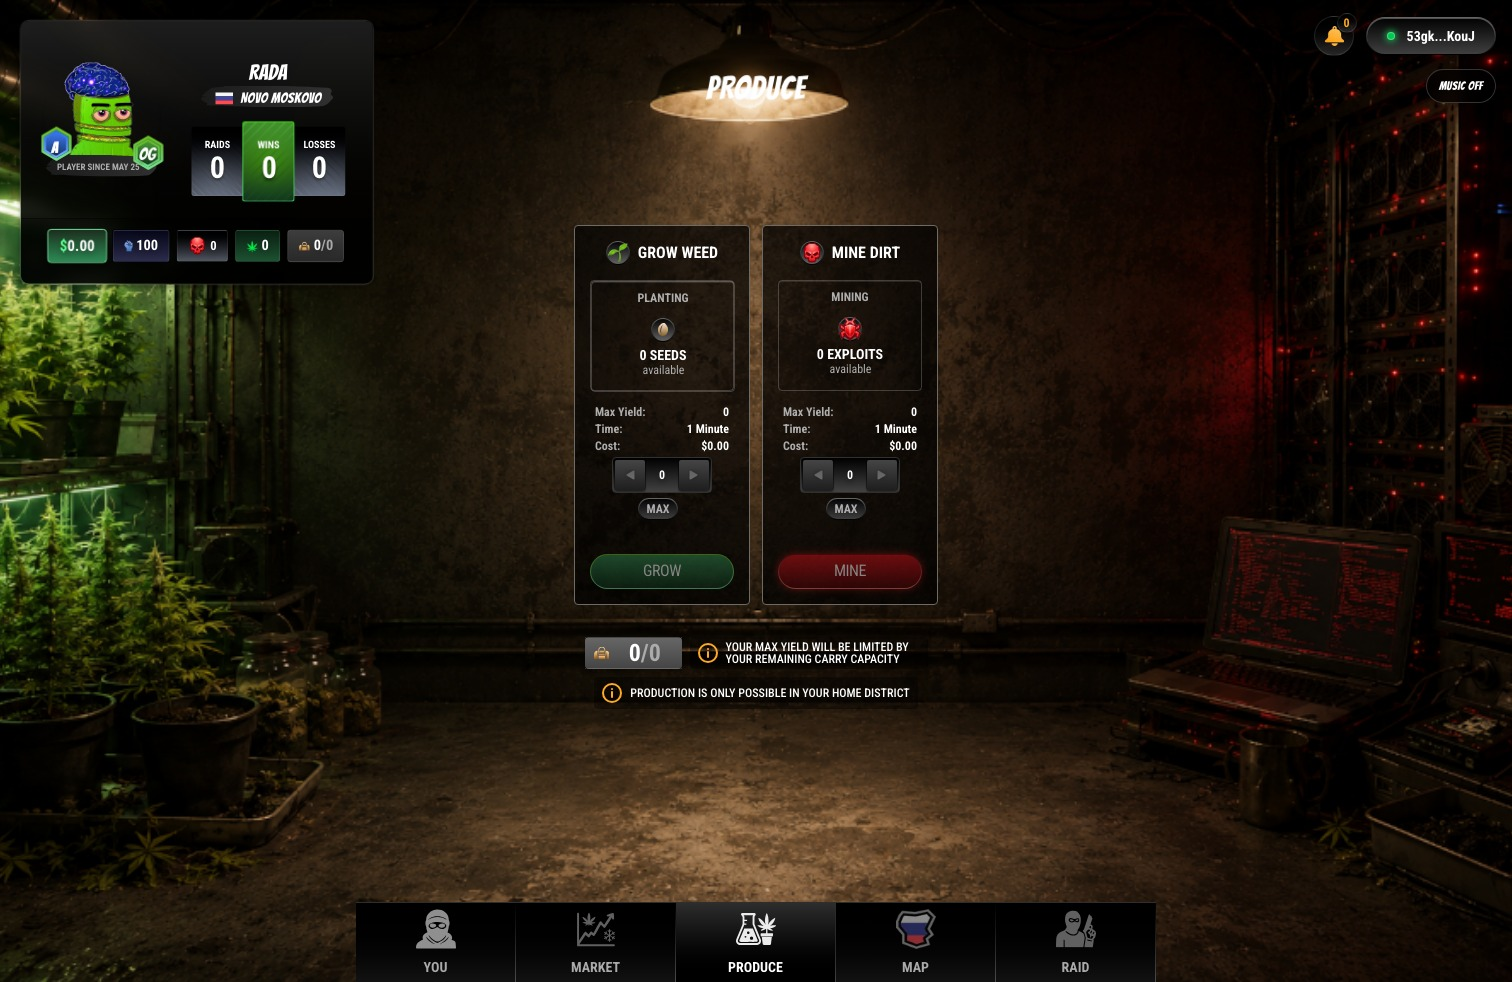
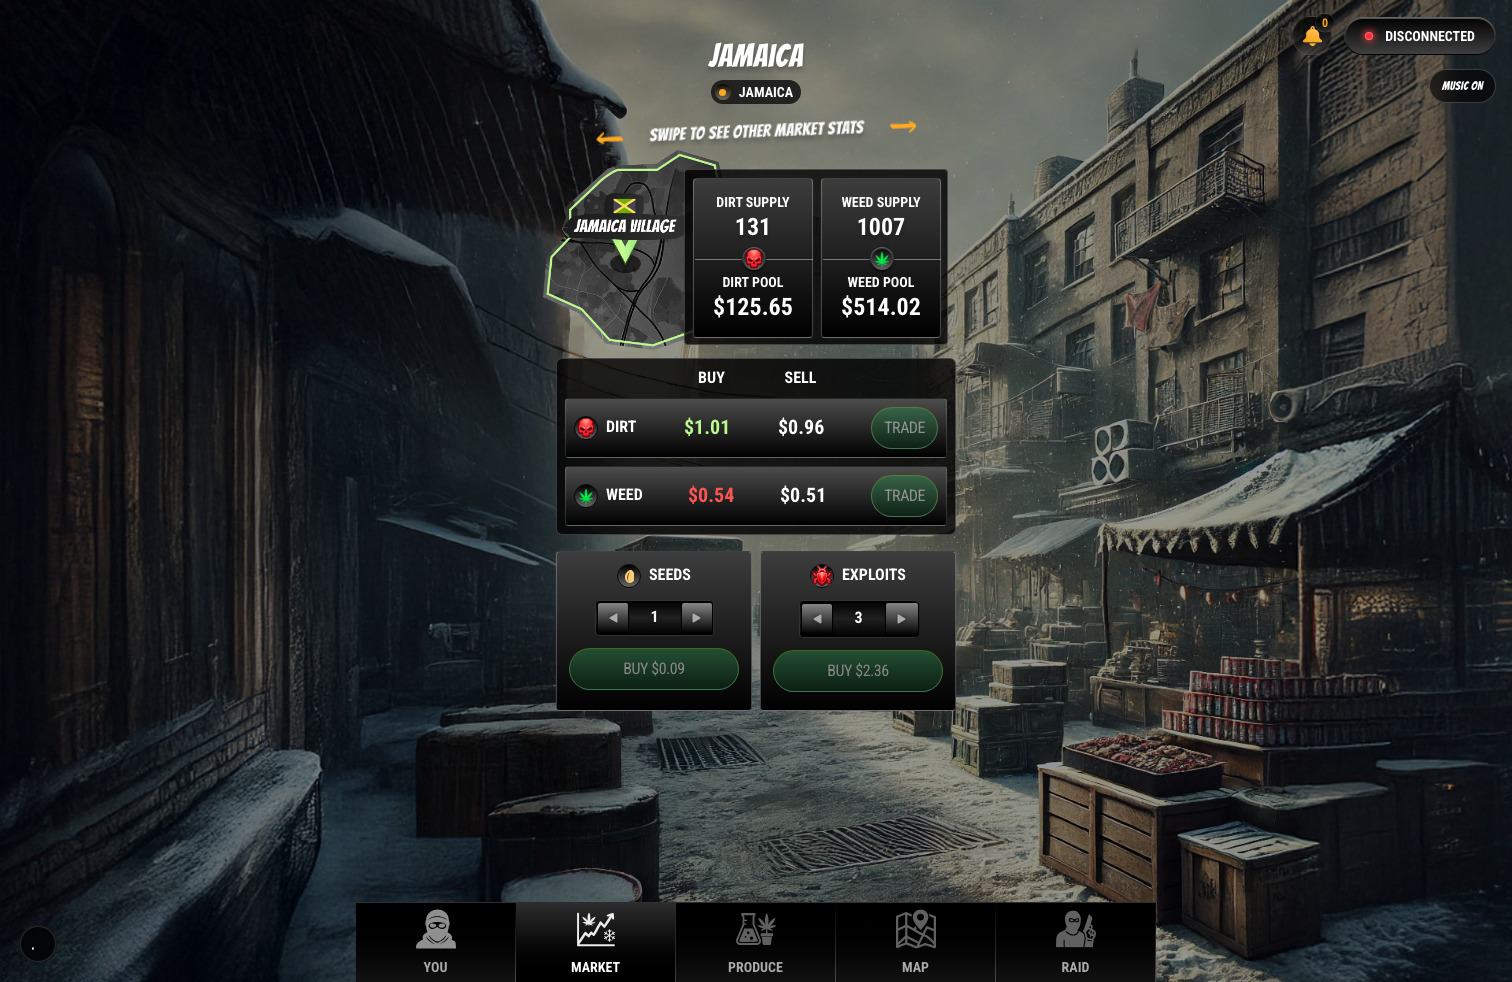
Fix GitBook DIRT visuals and arbitrage docs

diff --git a/trading.md b/trading.md
@@ -19,6 +19,30 @@ District markets can sell:
 
 SEEDS and EXPLOITS are inputs. WEED and DIRT are finished product.
 
+## Arbitrage: Route the Spread
+
+Arbitrage is the trader's core edge. Every district can price WEED, DIRT, SEEDS, and EXPLOITS differently. If one district lets you buy low and another district lets you sell high, the gap becomes a route opportunity.
+
+<figure><img src=".gitbook/assets/arbitrage-market-route.jpg" alt="DopeRaider market and route screens" width="720"><figcaption><p>Arbitrage starts on the market screen, then becomes a travel decision.</p></figcaption></figure>
+
+The basic read is:
+
+```text
+expected profit = destination sell value - origin buy cost - travel cost - fees - expected losses
+```
+
+The spread is only real after costs. A DIRT price gap can look profitable until you add travel, boss tax, bust exposure, raid risk, and the time it takes to reach the exit market. A smaller spread on a safer route can beat a bigger spread through a hot district.
+
+Good arbitrage players:
+
+* check DIRT and WEED buy/sell prices before moving
+* keep enough USDC for travel after buying inventory
+* use Bust Protection when the carried value justifies it
+* avoid filling capacity so tightly that raid or jackpot rewards are wasted
+* sell before the market moves or other players crowd the same route
+
+Timing matters. If you buy before demand spikes, move while protection is active, and sell before supply floods the destination, the same inventory can turn into profit. If you wait too long, the spread can disappear while you are still on the road.
+
 ## Buy Low, Sell High
 
 The simple version is easy:

diff --git a/production.md b/production.md
@@ -1,14 +1,13 @@
 ---
 icon: user-helmet-safety
-cover: .gitbook/assets/production-landscape.png
-coverY: 58
+cover: .gitbook/assets/cover-production.jpg
 ---
 
 # Production
 
 Production is how raw inputs become inventory. Without producers, traders have nothing to move and raiders have nothing worth stealing.
 
-<figure><img src=".gitbook/assets/screen-production-desktop.jpg" alt="DopeRaider production screen" width="720"><figcaption><p>Grow WEED. Mine DIRT. Watch capacity before starting either job.</p></figcaption></figure>
+<figure><img src=".gitbook/assets/screen-production-desktop.jpg" alt="DopeRaider production screen with WEED and DIRT" width="720"><figcaption><p>Grow WEED. Mine DIRT. Watch capacity before starting either job.</p></figcaption></figure>
 
 ## Production Chains
 

diff --git a/README.md b/README.md
@@ -1,12 +1,11 @@
 ---
 icon: cannabis
-cover: .gitbook/assets/hero-bg.png
-coverY: 78
+cover: .gitbook/assets/cover-home.jpg
 ---
 
 # DopeRaider
 
-<figure><img src=".gitbook/assets/doperaider-logo-text.svg" alt="DopeRaider" width="260"><figcaption></figcaption></figure>
+<figure><img src=".gitbook/assets/doperaider-logo.png" alt="DopeRaider logo" width="260"><figcaption></figcaption></figure>
 
 DopeRaider is a real-time on-chain multiplayer RPG about building an empire under pressure. Players grow WEED, mine DIRT, move product across seven districts, raid rivals, earn Respect, and fight for control of the street economy.
 

diff --git a/dirt-lore.md b/dirt-lore.md
@@ -1,7 +1,6 @@
 ---
 icon: skull
-cover: .gitbook/assets/profile-landscape.png
-coverY: 46
+cover: .gitbook/assets/cover-dirt-lore.jpg
 ---
 
 # DIRT Lore
